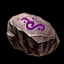
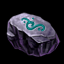
Rename Herb to Health as the name is more generic
This also renames the image files of the item and the image files of the
shop. The shop images now match the color of the item images.

diff --git a/src/de/propra13/assets/Theme.java b/src/de/propra13/assets/Theme.java
@@ -34,7 +34,7 @@ public class Theme {
     private BlunaCrate wallBluna;
     private BlunaCrate swordBluna;
     private BlunaCrate clubBluna;
-    private BlunaCrate herbBluna;
+    private BlunaCrate healthBluna;
     private BlunaCrate onehundretBluna;
 
     private String themeName;
@@ -178,14 +178,14 @@ public class Theme {
         swordBluna = getSimpleBlunaCrate(readImage("sword.png"));
         clubBluna = getSimpleBlunaCrate(readImage("club.png"));
 
-        herbBluna = getBlunaCrate(readImage("bluna/herbitem.png"), 1, 8,
+        healthBluna = getBlunaCrate(readImage("bluna/healthitem.png"), 1, 8,
                 0x1f160d);
         onehundretBluna = getBlunaCrate(readImage("bluna/onehundret.png"), 1,
                 8, 0x1f160d);
     }
 
-    public BlunaCrate getHerbBluna() {
-        return herbBluna;
+    public BlunaCrate getHealthBluna() {
+        return healthBluna;
     }
 
     public BlunaCrate getOnehundretBluna() {

diff --git a/src/de/propra13/models/Room.java b/src/de/propra13/models/Room.java
@@ -10,7 +10,7 @@ import de.propra13.views.objects.DragonObject;
 import de.propra13.views.objects.EnemyObject;
 import de.propra13.views.objects.GameObject;
 import de.propra13.views.objects.GoalObject;
-import de.propra13.views.objects.HerbObject;
+import de.propra13.views.objects.HealthObject;
 import de.propra13.views.objects.ItemObject;
 import de.propra13.views.objects.MaxObject;
 import de.propra13.views.objects.MoneyObject;
@@ -84,7 +84,7 @@ public class Room extends Model {
                     items.add(new SwordObject(new Sword(100), x, y, theme));
                     break;
                 case 'H':
-                    items.add(new HerbObject(new Herb(25), x, y, theme));
+                    items.add(new HealthObject(new Health(25), x, y, theme));
                     break;
                 case 'D':
                     enemies.add(new DragonObject(new Dragon(1000), x, y, theme));

diff --git a/src/de/propra13/models/Trader.java b/src/de/propra13/models/Trader.java
@@ -22,9 +22,9 @@ public class Trader extends Npc {
 
         for (int i = 0; i < 9; i++) {
             Slot slot = new Slot();
-            slot.items.add(new Herb(100));
-            slot.items.add(new Herb(100));
-            slot.items.add(new Herb(100));
+            slot.items.add(new Health(100));
+            slot.items.add(new Health(100));
+            slot.items.add(new Health(100));
             slot.price = 40;
 
             slots.add(slot);

diff --git a/src/de/propra13/models/Player.java b/src/de/propra13/models/Player.java
@@ -72,11 +72,11 @@ public class Player extends BioAgressor implements ActionListener {
         return lifes;
     }
 
-    public void heal(Herb herb) {
-        if (items.contains(herb)) {
-            items.remove(herb);
+    public void heal(Health health) {
+        if (items.contains(health)) {
+            items.remove(health);
         }
-        heal(herb.getHealth());
+        heal(health.getHealth());
     }
 
     public void die() {

diff --git a/src/de/propra13/views/objects/HealthObject.java b/src/de/propra13/views/objects/HealthObject.java
@@ -1,0 +1,13 @@
+package de.propra13.views.objects;
+
+import de.propra13.assets.Theme;
+import de.propra13.assets.animations.Animation;
+import de.propra13.models.Health;
+
+public class HealthObject extends ItemObject {
+
+    public HealthObject(Health health, int x, int y, Theme theme) {
+        super(new Animation(theme.getHealthBluna()), x, y);
+        this.item = health;
+    }
+}

diff --git a/src/de/propra13/models/Health.java b/src/de/propra13/models/Health.java
@@ -1,10 +1,10 @@
 package de.propra13.models;
 
-public class Herb extends Item {
+public class Health extends Item {
 
     private int health;
 
-    public Herb(int health) {
+    public Health(int health) {
         this.health = health;
     }
 
